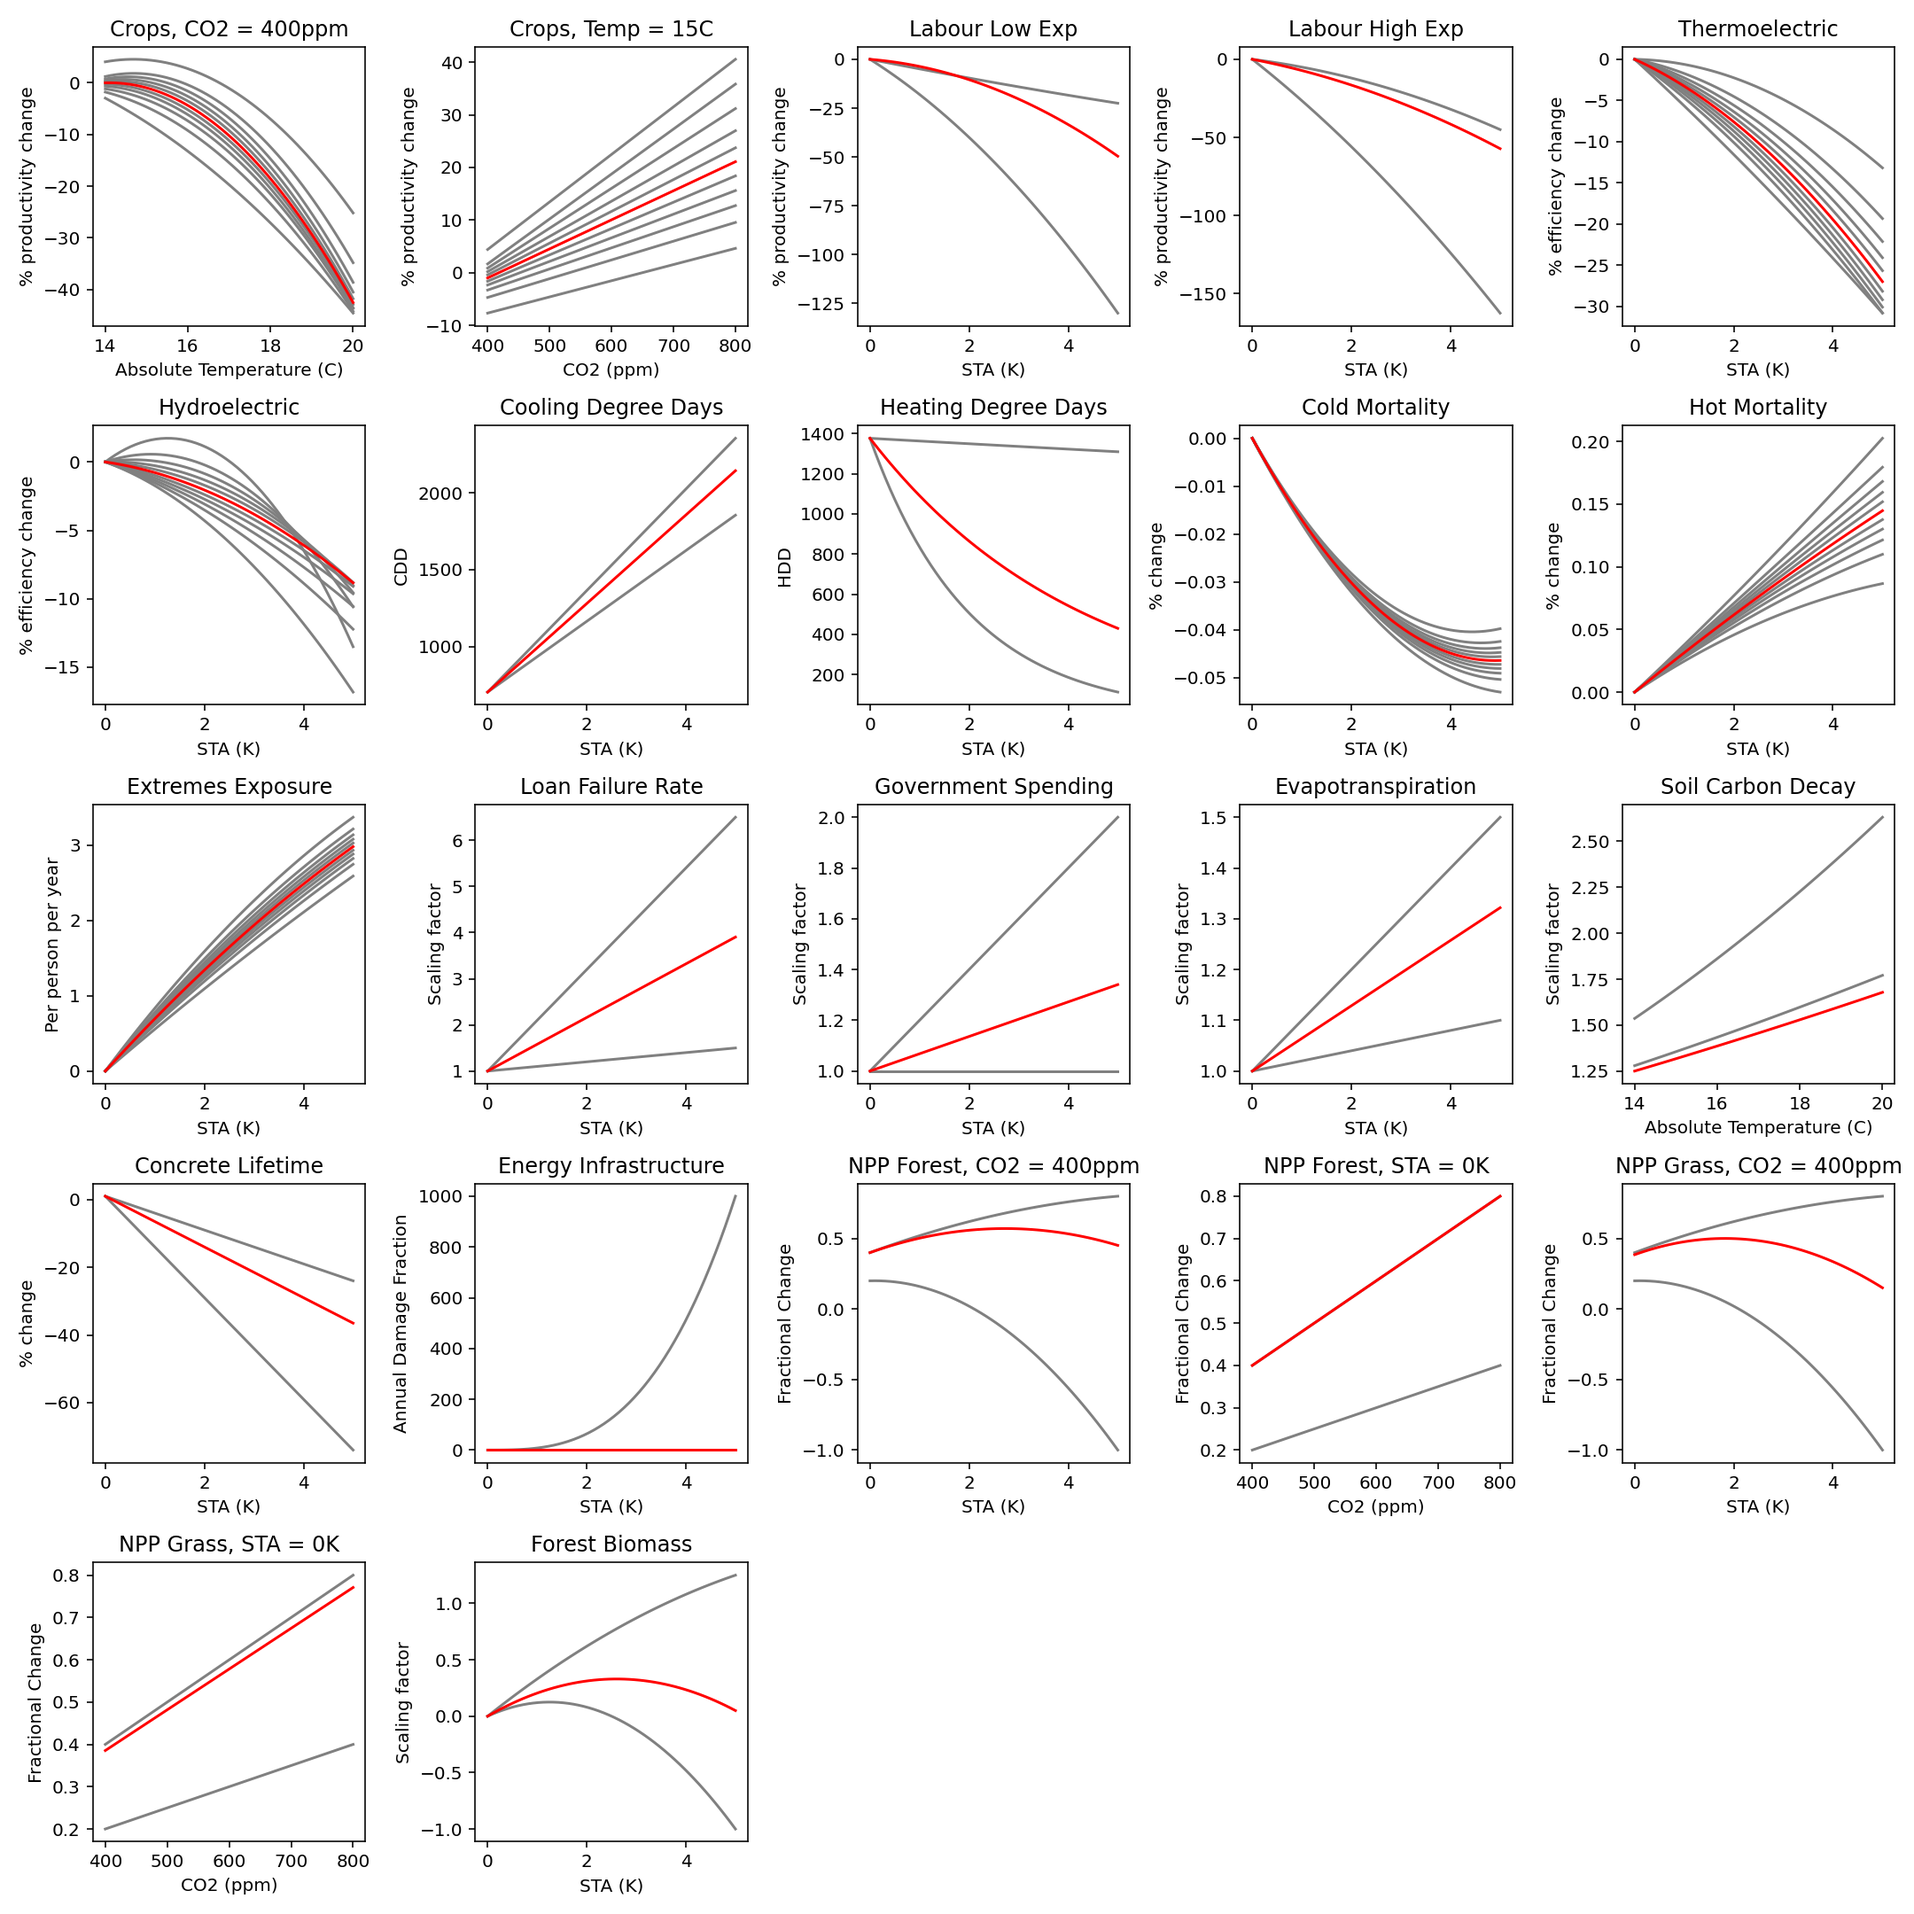
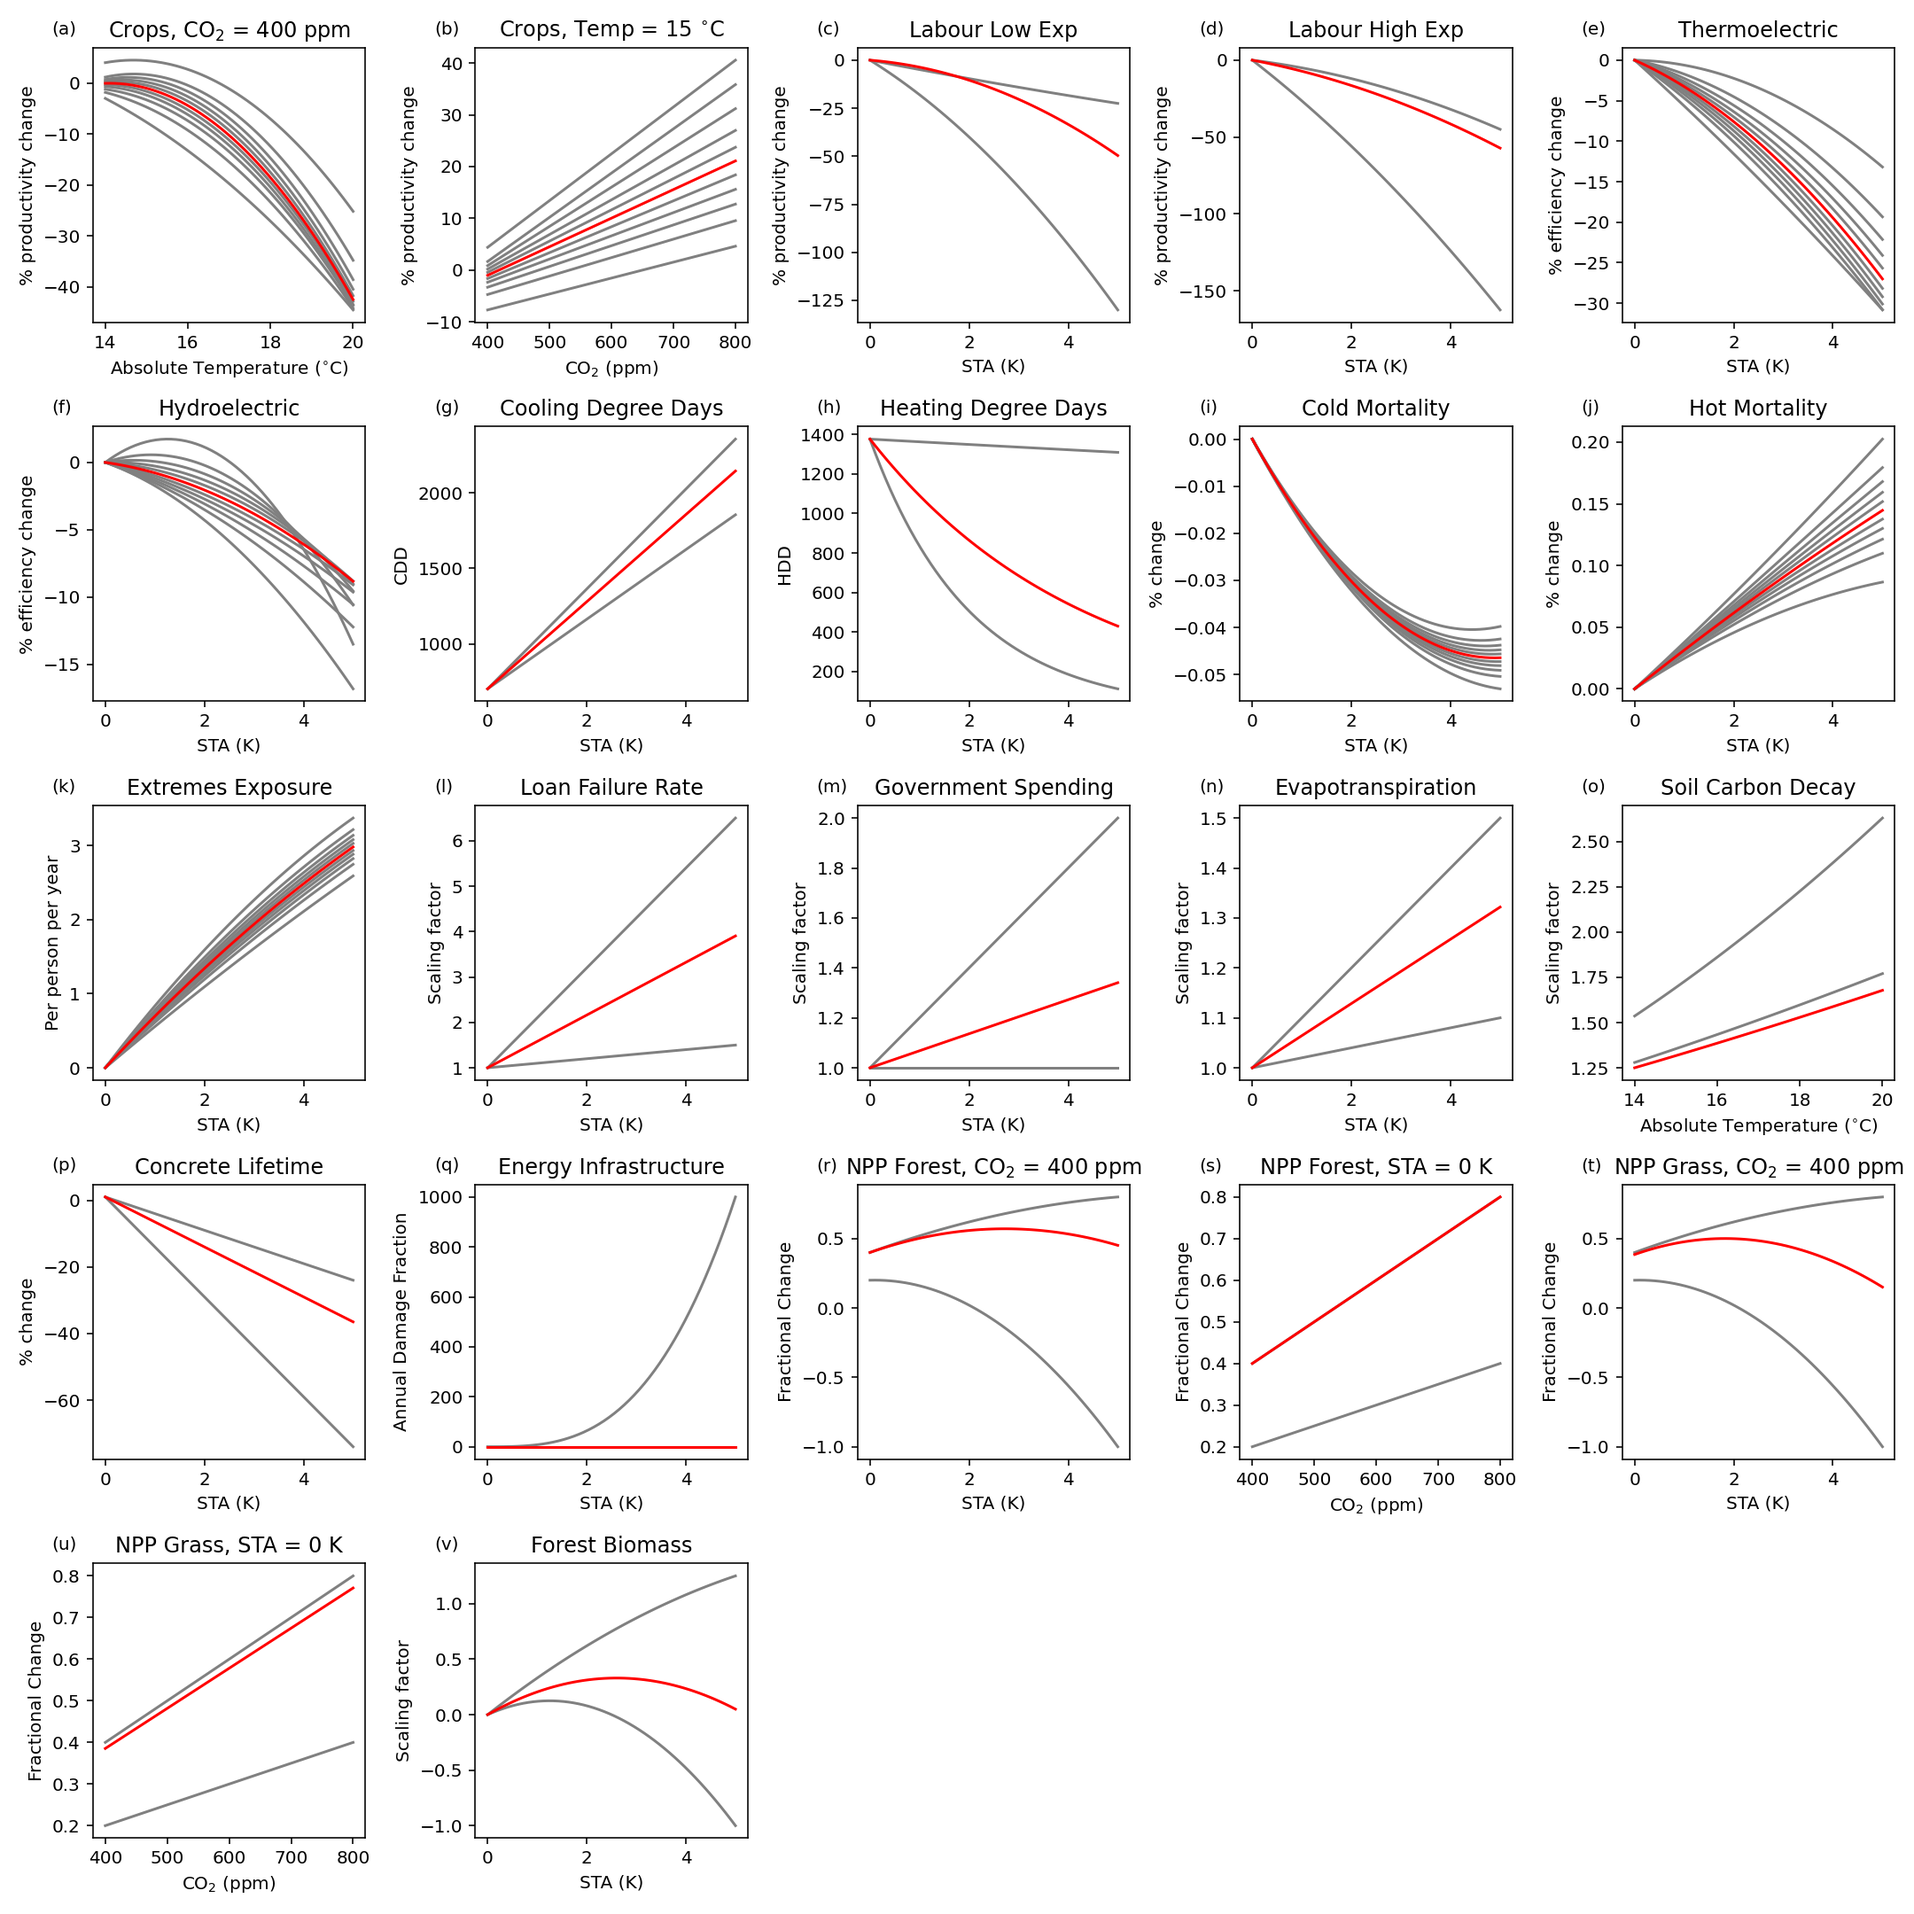
updated figure style

diff --git a/scripts/plot_damage_functions.py b/scripts/plot_damage_functions.py
@@ -2,7 +2,8 @@ import matplotlib.pyplot as plt
 # import pandas as pd
 import pickle
 import numpy as np
-
+import string
+string.ascii_lowercase
 # For Figure 2 in the climate impacts documentation paper
 
 # some have "sampled percentiles", others just on 3 levels, with
@@ -31,7 +32,11 @@ co2_plot = np.linspace(400, 800, 50)
 nx = 5
 ny = 5
 fig, axs = plt.subplots(nx, ny, figsize=(15, 15))
+
 axs = axs.ravel()
+
+for j in np.arange(nx*ny):
+    axs[j].text(-0.15, 1.05, f'({string.ascii_lowercase[j]})', transform=axs[j].transAxes)
 
 i = 0
 
@@ -56,9 +61,9 @@ for p_i, perc in enumerate(percentiles):
     resp = a[p_i] + b[p_i]*abs_t_plot + c[p_i]*abs_t_plot**2 + d[p_i]*CO2_fix
     axs[i].plot(abs_t_plot, resp, color=colors_p[perc], zorder=zorders_p[perc])
     
-axs[i].set_title(f'Crops, CO2 = {CO2_fix}ppm')
+axs[i].set_title(fr'Crops, CO$_{2}$ = {CO2_fix} ppm')
 axs[i].set_ylabel('% productivity change')
-axs[i].set_xlabel('Absolute Temperature (C)')
+axs[i].set_xlabel(r'Absolute Temperature ($^{\circ}$C)')
 
 i += 1
 
@@ -66,9 +71,9 @@ for p_i, perc in enumerate(percentiles):
     resp = a[p_i] + b[p_i]*T_fix + c[p_i]*T_fix**2 + d[p_i]*co2_plot
     axs[i].plot(co2_plot, resp, color=colors_p[perc], zorder=zorders_p[perc])
     
-axs[i].set_title(f'Crops, Temp = {T_fix}C')
+axs[i].set_title(f'Crops, Temp = {T_fix} ' + r'$^{\circ}$C')
 axs[i].set_ylabel('% productivity change')
-axs[i].set_xlabel('CO2 (ppm)')    
+axs[i].set_xlabel(r'CO$_{2}$ (ppm)')    
 
 
 # Labour productivity
@@ -297,7 +302,7 @@ for l_i, lev in enumerate(levels):
     
 axs[i].set_title('Soil Carbon Decay')
 axs[i].set_ylabel('Scaling factor')
-axs[i].set_xlabel('Absolute Temperature (C)')
+axs[i].set_xlabel(r'Absolute Temperature ($^{\circ}$C)')
 
 
 # Durability of Concrete 
@@ -347,7 +352,7 @@ for l_i, lev in enumerate(levels):
     
     axs[i].plot(sta_plot, resp, color=colors_l[lev], zorder=zorders_l[lev])
     
-axs[i].set_title(f'NPP Forest, CO2 = {CO2_fix}ppm')
+axs[i].set_title(fr'NPP Forest, CO$_{2}$ = {CO2_fix} ppm')
 axs[i].set_ylabel('Fractional Change')
 axs[i].set_xlabel('STA (K)')  
 
@@ -358,9 +363,9 @@ for l_i, lev in enumerate(levels):
     
     axs[i].plot(co2_plot, resp, color=colors_l[lev], zorder=zorders_l[lev])
     
-axs[i].set_title(f'NPP Forest, STA = {T_fix_sta}K')
+axs[i].set_title(f'NPP Forest, STA = {T_fix_sta} K')
 axs[i].set_ylabel('Fractional Change')
-axs[i].set_xlabel('CO2 (ppm)')  
+axs[i].set_xlabel(f'CO$_{2}$ (ppm)')  
 
 
 
@@ -377,7 +382,7 @@ for l_i, lev in enumerate(levels):
     
     axs[i].plot(sta_plot, resp, color=colors_l[lev], zorder=zorders_l[lev])
     
-axs[i].set_title(f'NPP Grass, CO2 = {CO2_fix}ppm')
+axs[i].set_title(fr'NPP Grass, CO$_{2}$ = {CO2_fix} ppm')
 axs[i].set_ylabel('Fractional Change')
 axs[i].set_xlabel('STA (K)')  
 
@@ -388,9 +393,9 @@ for l_i, lev in enumerate(levels):
     
     axs[i].plot(co2_plot, resp, color=colors_l[lev], zorder=zorders_l[lev])
     
-axs[i].set_title(f'NPP Grass, STA = {T_fix_sta}K')
+axs[i].set_title(f'NPP Grass, STA = {T_fix_sta} K')
 axs[i].set_ylabel('Fractional Change')
-axs[i].set_xlabel('CO2 (ppm)')  
+axs[i].set_xlabel(r'CO$_{2}$ (ppm)')  
 
 
 # Forest Biomass
